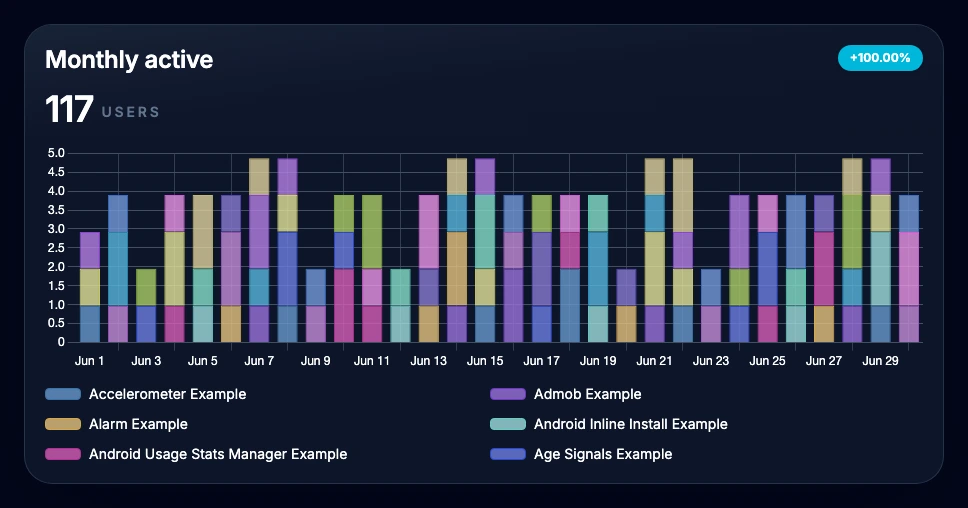
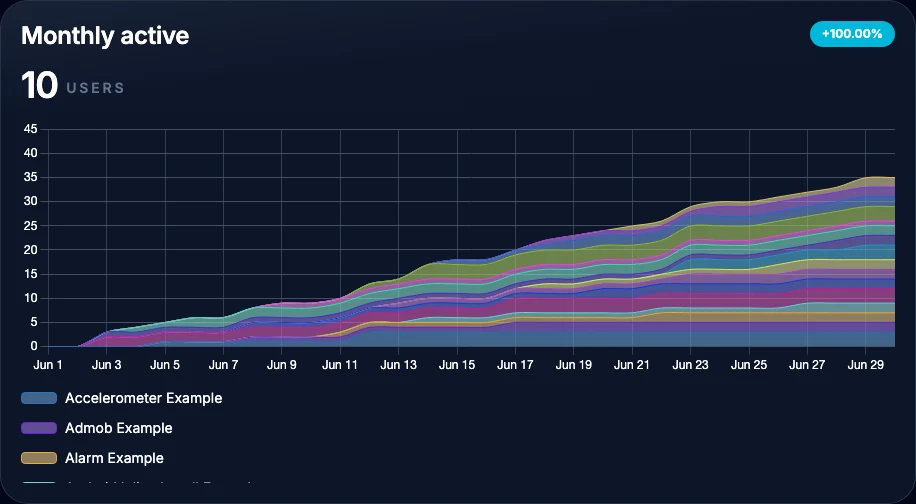
fix(dashboard): keep usage chart height with scroll legend

diff --git a/src/components/dashboard/LineChartStats.vue b/src/components/dashboard/LineChartStats.vue
@@ -491,12 +491,12 @@ const barPlugins = sharedPlugins as unknown as Plugin<'bar'>[]
 </script>
 
 <template>
-  <div class="flex h-full min-h-0 flex-col">
-    <div class="min-h-0 flex-1">
+  <div class="flex min-h-full flex-col">
+    <div class="min-h-[16rem] flex-1">
       <Line v-if="accumulated" :data="chartData as any" height="auto" :options="(chartOptions as any)" :plugins="linePlugins" />
       <Bar v-else :data="chartData as any" height="auto" :options="(chartOptions as any)" :plugins="barPlugins" />
     </div>
-    <ul v-if="legendItems.length" class="mt-3 grid max-h-20 shrink-0 grid-cols-1 gap-x-4 gap-y-2 overflow-y-auto pr-1 [scrollbar-gutter:stable] sm:grid-cols-2">
+    <ul v-if="legendItems.length" class="mt-3 max-h-24 shrink-0 space-y-2 overflow-y-auto pr-1 [scrollbar-gutter:stable]">
       <li v-for="item in legendItems" :key="item.id" class="flex min-w-0 items-center gap-2 text-sm text-slate-700 dark:text-white">
         <span
           class="h-3 w-9 shrink-0 rounded-sm border"

diff --git a/src/components/dashboard/ChartCard.vue b/src/components/dashboard/ChartCard.vue
@@ -49,7 +49,7 @@ const displayNoDataMessage = computed(() => props.noDataMessage ?? t('no-data'))
 </script>
 
 <template>
-  <div class="relative col-span-full flex h-[460px] flex-col overflow-hidden rounded-[1.75rem] border border-slate-200/80 bg-white/95 shadow-[0_20px_60px_-38px_rgba(15,23,42,0.3)] backdrop-blur dark:border-slate-700/70 dark:bg-slate-900/85 dark:shadow-[0_24px_70px_-42px_rgba(2,6,23,0.72)]">
+  <div class="relative col-span-full flex min-h-[460px] flex-col overflow-hidden rounded-[1.75rem] border border-slate-200/80 bg-white/95 shadow-[0_20px_60px_-38px_rgba(15,23,42,0.3)] backdrop-blur dark:border-slate-700/70 dark:bg-slate-900/85 dark:shadow-[0_24px_70px_-42px_rgba(2,6,23,0.72)]">
     <div class="pointer-events-none absolute inset-x-0 top-0 h-28 bg-gradient-to-br from-slate-50 via-white to-transparent dark:from-slate-800/70 dark:via-slate-900/40 dark:to-transparent" />
 
     <!-- Header with title and stats -->